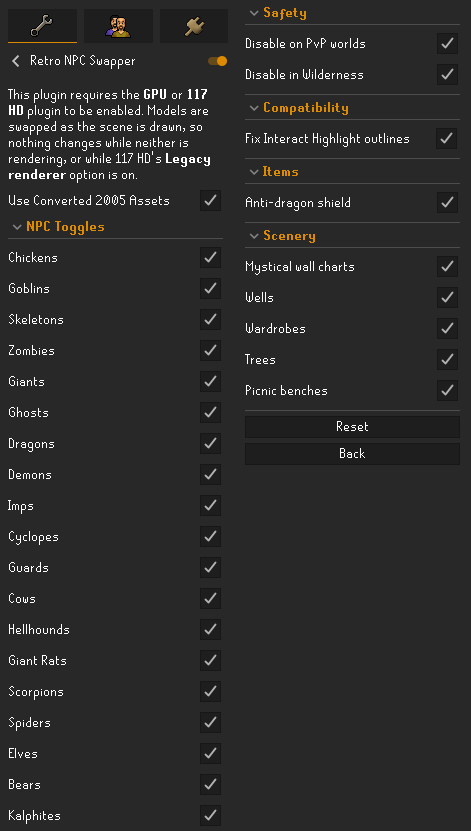
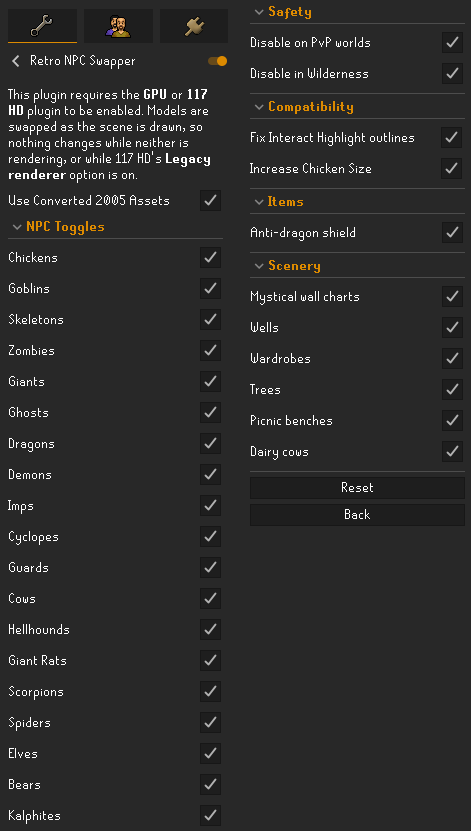
Update config image, readme

diff --git a/README.md b/README.md
@@ -34,7 +34,7 @@ Also in **NPC Toggles**, gated behind *Use Converted 2005 Assets*:
 - **Elves** — (Attackable only)
 - **Kalphites** — KQ, Guardians, Soldiers, Workers, Larvae
 
-Under **Scenery**, each restored to its 2005 model:
+Under **Scenery**:
 
 - **Mystical wall charts**
 - **Wells**
